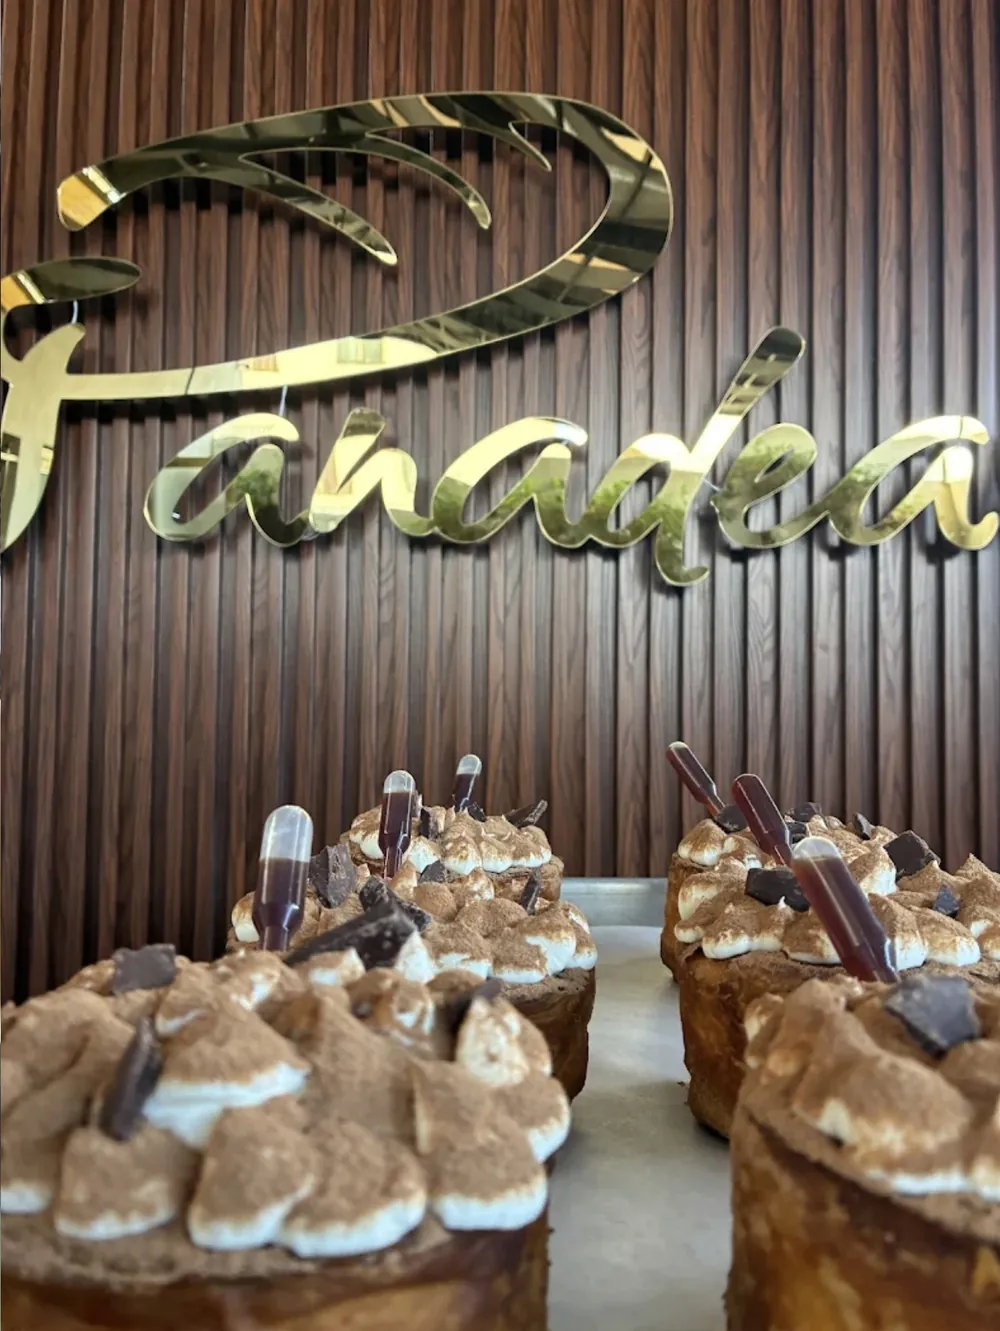
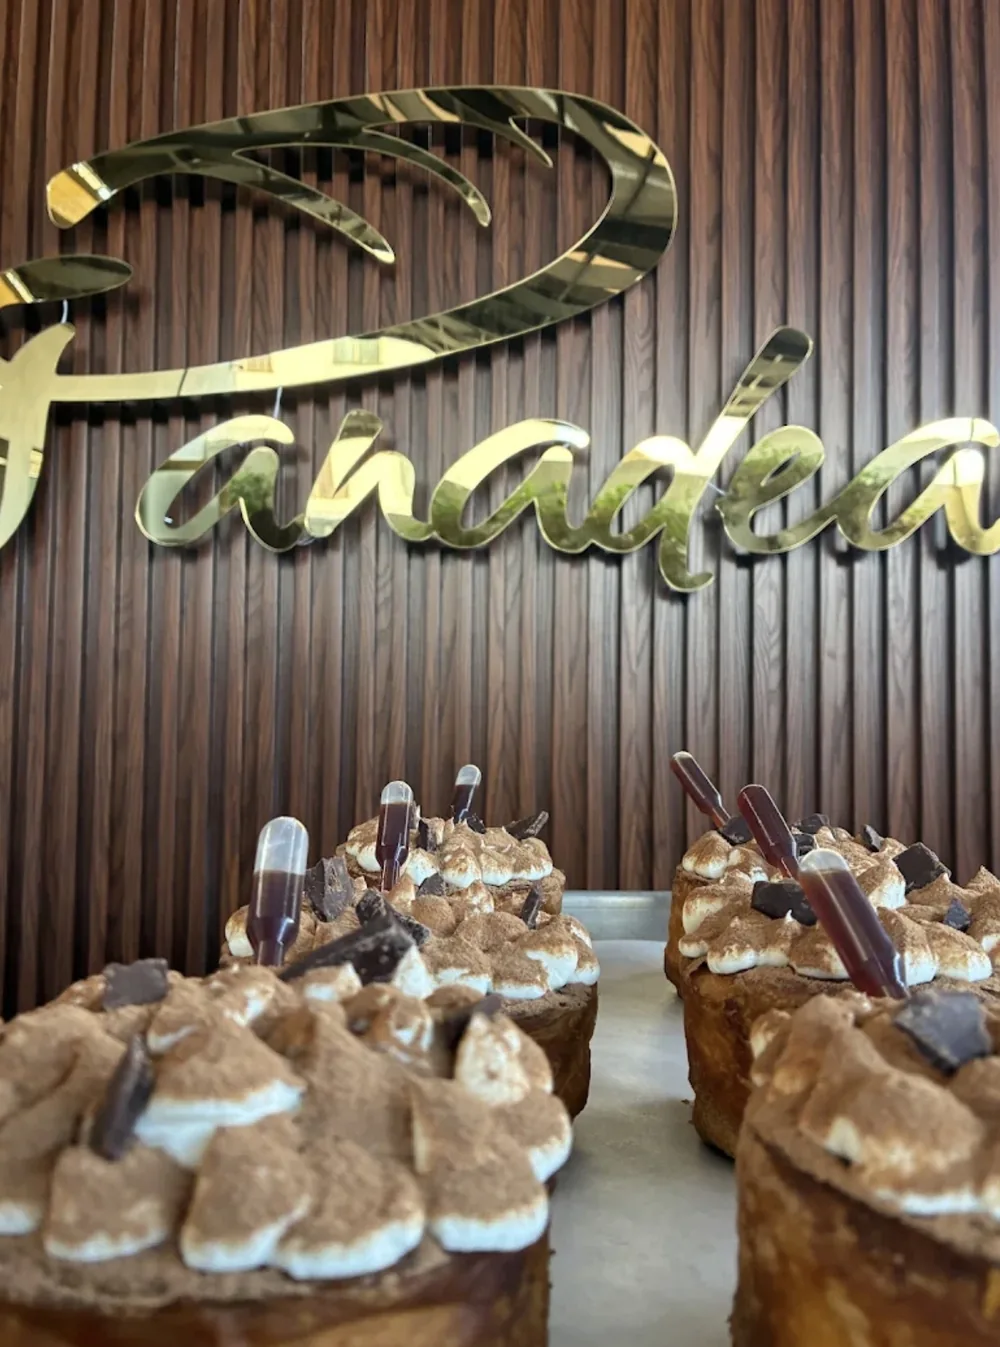
Panadeando: orillas limpias en las fotos y mejor encuadre de los hotcakes
Claude-Session: https://claude.ai/code/session_01Kc7UqCdqdJPQ1ZZXAvmbf9

diff --git a/clientes/panadeando/index.html b/clientes/panadeando/index.html
@@ -133,7 +133,7 @@
   .galeria figcaption{position:absolute;left:0;right:0;bottom:0;padding:40px 18px 16px;background:linear-gradient(180deg,transparent,rgba(13,9,7,.85));font:italic 400 1.15rem/1.2 var(--serif);color:var(--marfil)}
   .g1{grid-column:1/-1;aspect-ratio:4/3}
   .g2{aspect-ratio:3/4}.g3{aspect-ratio:3/4}
-  .g1 img{object-position:50% 62%}
+  .g1 img{object-position:62% 72%}
   @media (min-width:900px){
     .galeria{grid-template-columns:1.25fr 1fr 1fr;grid-template-rows:280px 280px;gap:18px}
     .g1{grid-column:1;grid-row:1/3;aspect-ratio:auto}
